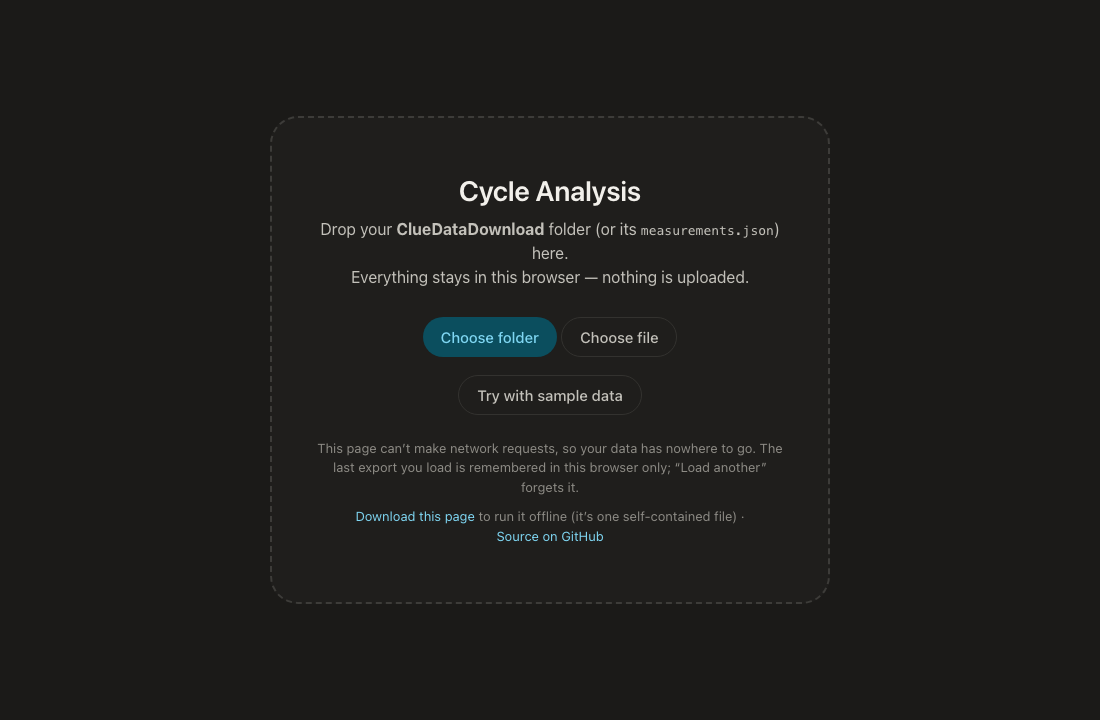
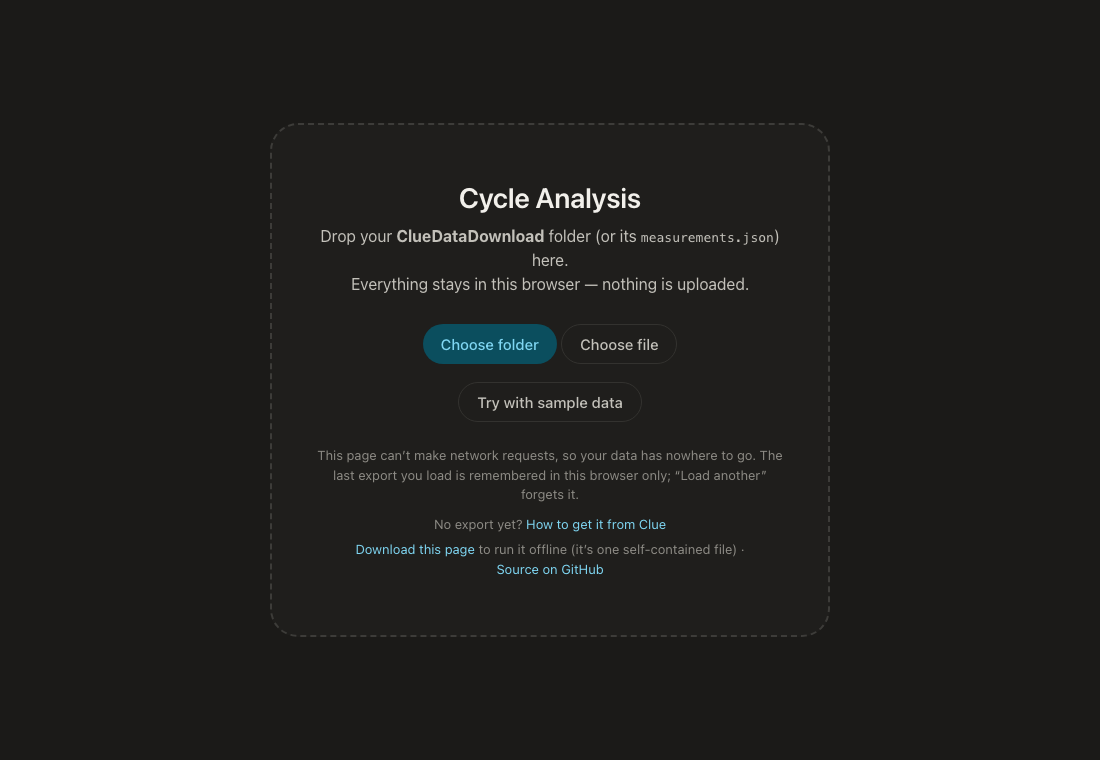
Explain how to get the export from Clue (README + start screen link)

Changed region(s): [[0.3091, 0.4278, 0.7109, 0.7639], [0.2782, 0.2444, 0.7109, 0.3972]]

diff --git a/index.html b/index.html
@@ -253,7 +253,8 @@ main { max-width: 1320px; margin: 0 auto; padding: 8px 32px 120px; }
     <input type="file" id="fileInput" accept=".json,application/json" multiple hidden>
     <div class="err" id="loadErr"></div>
     <p class="small">This page can’t make network requests, so your data has nowhere to go. The last export you load is remembered in this browser only; “Load another” forgets it.</p>
-    <p class="small" style="margin-top:10px"><a href="index.html" download="cycle-export-visualizer.html">Download this page</a> to run it offline (it’s one self-contained file) · <a href="https://github.com/avandekleut/cycle-export-visualizer" target="_blank" rel="noopener">Source on GitHub</a></p>
+    <p class="small" style="margin-top:10px">No export yet? <a href="https://support.helloclue.com/hc/en-us/articles/17320910724125-How-do-I-get-a-copy-of-my-Clue-data" target="_blank" rel="noopener">How to get it from Clue</a></p>
+    <p class="small" style="margin-top:6px"><a href="index.html" download="cycle-export-visualizer.html">Download this page</a> to run it offline (it’s one self-contained file) · <a href="https://github.com/avandekleut/cycle-export-visualizer" target="_blank" rel="noopener">Source on GitHub</a></p>
   </div>
 </section>
 

diff --git a/README.md b/README.md
@@ -18,8 +18,8 @@ No export to hand? Click **Try with sample data**, or drop the made-up export in
 
 ## Using it
 
-1. Request your data export from Clue. It arrives as a zip; unzip it.
-2. Open the app and drop the `ClueDataDownload-…` folder (or just its `measurements.json`) onto the page.
+1. **Get your export from Clue.** In the Clue app, go to the More menu → **Settings** → **Download my data** and request it. Copy the password the app shows you. Clue emails a download link (valid for 72 hours); download the .zip and open it with that password. Menus change over time; [Clue's help article](https://support.helloclue.com/hc/en-us/articles/17320910724125-How-do-I-get-a-copy-of-my-Clue-data) has the current steps.
+2. **Open the app** and drop the unzipped `ClueDataDownload-…` folder (or just its `measurements.json`) onto the page.
 
 <img src="docs/start.png" alt="Start screen" width="560">
 
